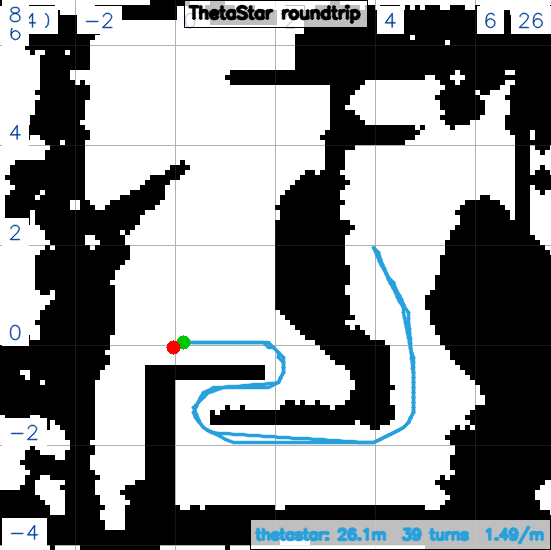
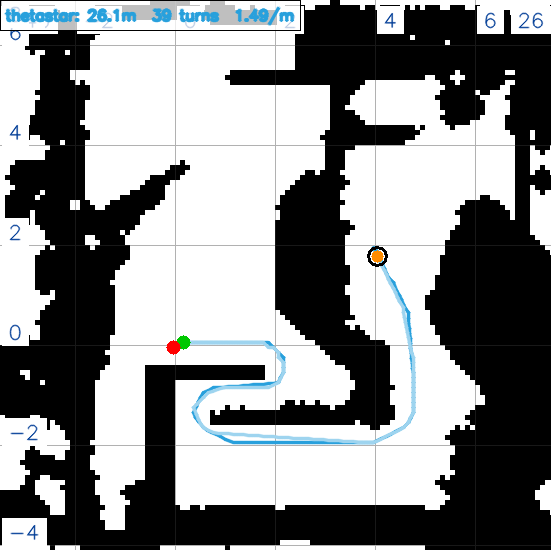
feat(plot_path): 新增 --two-tone，往返轨迹去程深色/回程浅色，便于看出对比
- 按里程中点切分：前半原色（去程）、后半 55% 浅色（回程），中点标橙色掉头点
- 战队 6 张图全部改用 --two-tone + --legend-pos tl（图例不再遮后段路径）
- 文档补充颜色约定说明

diff --git a/tools/plot_path.py b/tools/plot_path.py
@@ -138,6 +138,10 @@ def main():
                     help='强制用调色板第 N 色（1=红 2=蓝 3=绿 4=紫 5=黄，循环）；'
                          '默认 0 = 按传参顺序自动分配。画单规划器大图时用它，'
                          '配色就和汇总图一致了')
+    ap.add_argument('--two-tone', action='store_true',
+                    help='往返轨迹专用：每条路径按里程中点切成两段，'
+                         '前半用原色（深，去程）、后半用浅色（50%% 淡，回程），'
+                         '并在中点标一个橙色掉头点；图例仍每个规划器一行')
     args = ap.parse_args()
 
     png, res, ox, oy = read_map_yaml(args.map)
@@ -269,8 +273,24 @@ def main():
         length, turns, density = path_stats(pts, args.turn_threshold)
 
         px = [to_px(x, y) for x, y in pts]
-        for j in range(1, len(px)):
-            cv2.line(canvas, px[j - 1], px[j], color, 2, cv2.LINE_AA)
+        if args.two_tone:
+            # 往返轨迹：按里程对半分，前半（去程）原色、后半（回程）浅色
+            cum = [0.0]
+            for k in range(1, len(pts)):
+                cum.append(cum[-1] + math.hypot(pts[k][0] - pts[k - 1][0],
+                                                pts[k][1] - pts[k - 1][1]))
+            half = cum[-1] / 2.0
+            mid = next(k for k in range(len(cum)) if cum[k] >= half)
+            light = tuple(int(c + (255 - c) * 0.55) for c in color)
+            for j in range(1, mid + 1):
+                cv2.line(canvas, px[j - 1], px[j], color, 2, cv2.LINE_AA)
+            for j in range(mid + 1, len(px)):
+                cv2.line(canvas, px[j - 1], px[j], light, 2, cv2.LINE_AA)
+            cv2.circle(canvas, px[mid], 9, (0, 0, 0), 2)        # 掉头点 描边
+            cv2.circle(canvas, px[mid], 6, (0, 140, 255), -1)   # 掉头点 橙
+        else:
+            for j in range(1, len(px)):
+                cv2.line(canvas, px[j - 1], px[j], color, 2, cv2.LINE_AA)
         cv2.circle(canvas, px[0], 7, (0, 200, 0), -1)      # 起点 绿
         cv2.circle(canvas, px[-1], 7, (0, 0, 255), -1)     # 终点 红
 

diff --git a/导航提交作业.md b/导航提交作业.md
@@ -61,8 +61,11 @@
 > **⚠ 别把右半边的空白当自由区**：那儿没有障碍，clearance 分析会把它误判成
 > 「最通畅的区域」，从而把起终点全选到没扫到的地方去（这个坑已踩过）。
 
-![战队场地五个规划器路径对比](assets/zhandui/path_compare_all.png)
+![战队场地往返轨迹对比](assets/zhandui/path_compare_all.png)
 
+> **往返轨迹的颜色分深浅：深色 = 去程，浅色 = 回程，橙点 = 掉头处（终点）。**
+> 这样去程 / 回程能看出对比，而不是两条线完全重叠。
+>
 > 单规划器大图：[NavFn](assets/zhandui/path_navfn.png) ｜ [ThetaStar](assets/zhandui/path_thetastar.png) ｜
 > [Smac2D](assets/zhandui/path_smac2d.png) ｜ [SmacHybrid](assets/zhandui/path_hybrid.png) ｜
 > [SmacLattice](assets/zhandui/path_lattice.png)
